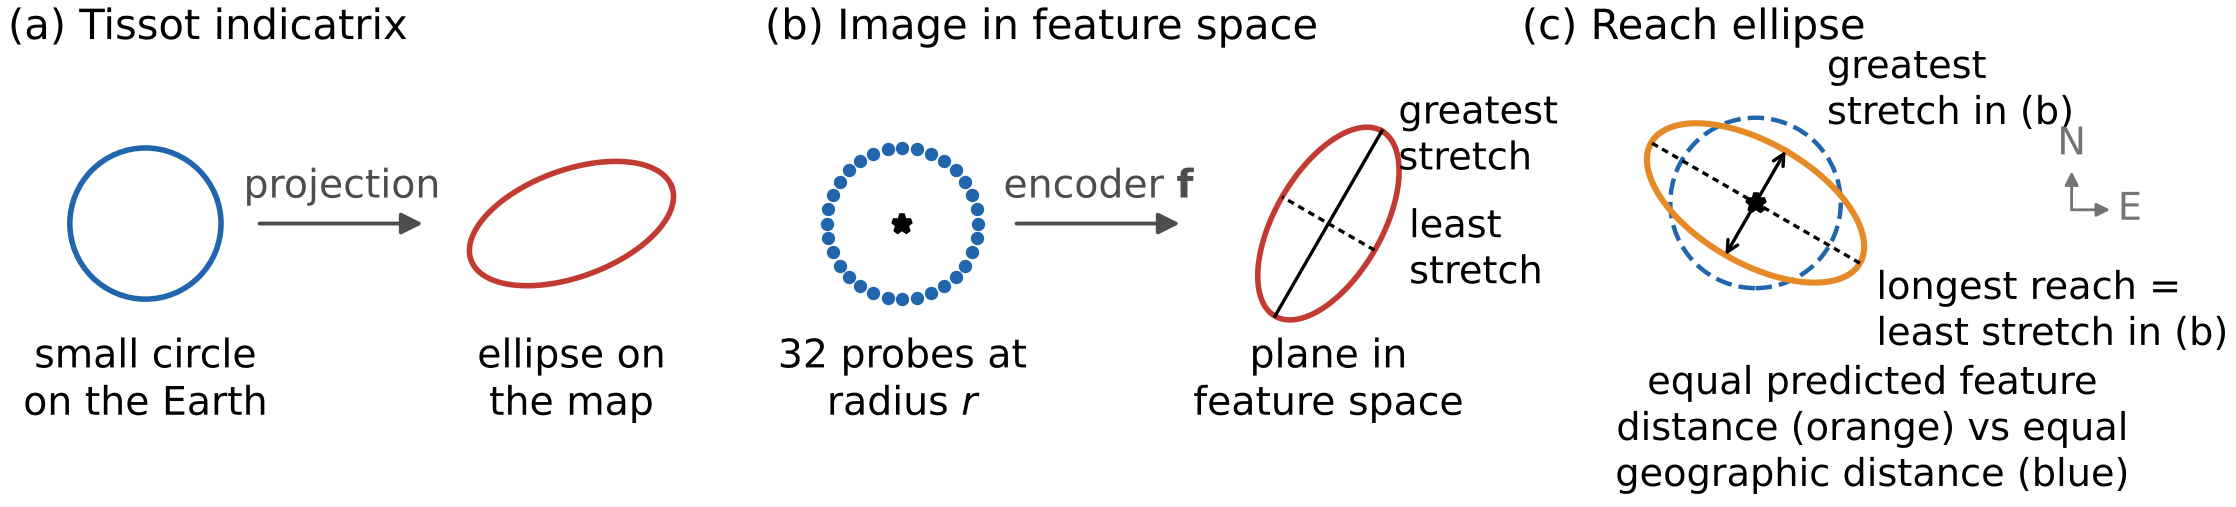
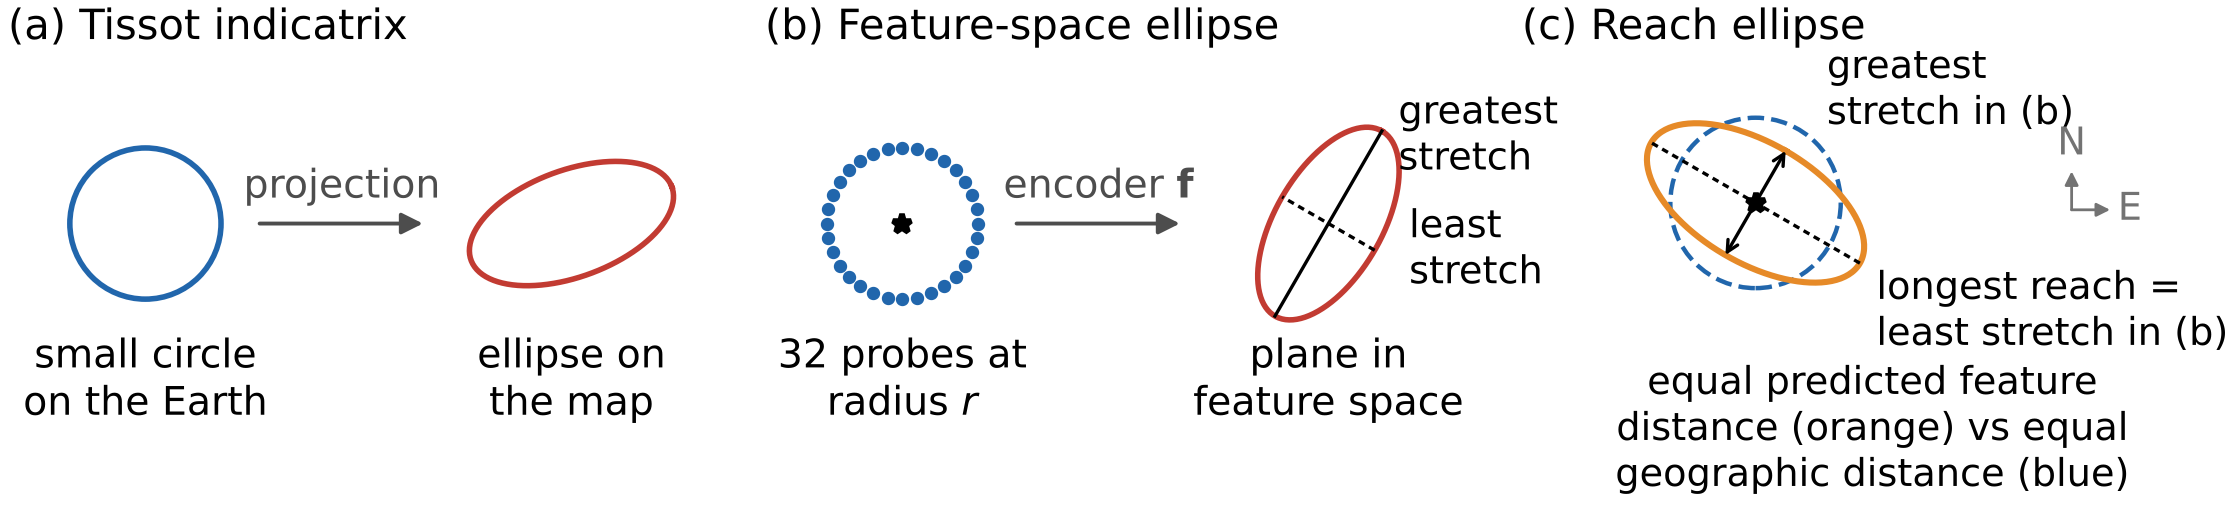
Figure 1: title panel (b) as the feature-space ellipse

Changed region(s): [[0.3703, 0.0296, 0.5863, 0.0888]]

diff --git a/src/etissot/reporting/manuscript_figures.py b/src/etissot/reporting/manuscript_figures.py
@@ -4,7 +4,7 @@ Regenerates the main-text and supplementary figures at print width (34 pc,
 5.65 in) with legible type, a common anisotropy colour scale, and Equal Earth
 basemaps for global fields:
 
-  fig_tissot_schematic.png    projection ellipse, image ellipse in feature space, reach ellipse (Fig. 1)
+  fig_tissot_schematic.png    projection ellipse, feature-space ellipse, reach ellipse (Fig. 1)
   geoclip_equal_earth.png     Equal Earth vs GeoCLIP fields with Tissot-style glyphs (Fig. 4)
   fig_indicatrix_v2.png       directional profiles (Fig. 2)
   fig_validation_v2.png       analytic input references (supplementary Fig. S1)
@@ -231,7 +231,7 @@ def schematic():
     arrow(ax, r'encoder $\mathbf{f}$')
     ax.text(L[0], -0.8, '32 probes at\nradius $r$', ha='center', va='top', fontsize=7.1)
     ax.text(Rc[0], -0.8, 'plane in\nfeature space', ha='center', va='top', fontsize=7.1)
-    ax.set_title('(b) Image in feature space', loc='left', fontsize=7.5)
+    ax.set_title('(b) Feature-space ellipse', loc='left', fontsize=7.5)
 
     # (c) reach ellipse on the ground
     ax = axs[2]

diff --git a/README.md b/README.md
@@ -6,7 +6,7 @@ eTissot is an installable Python package for measuring the local geographic dist
 
 ## What eTissot measures
 
-![Tissot's indicatrix, the image ellipse of an encoder in feature space, and the reach ellipse](docs/images/fig_tissot_schematic.png)
+![Tissot's indicatrix, the feature-space ellipse of an encoder, and the reach ellipse](docs/images/fig_tissot_schematic.png)
 
 In cartography, Tissot's indicatrix records how a map projection stretches a small circle on the Earth into an ellipse (a). eTissot applies the same idea to a location encoder by evaluating the encoder on a ring of 32 geodesic probes around a location and fitting the ellipse that describes how feature distance grows with geographic displacement in each direction (b). The fitted tensor also defines the *reach ellipse* (c), that is, the geographic displacements with equal predicted feature distance, which is longest across the direction of greatest stretch.
 
